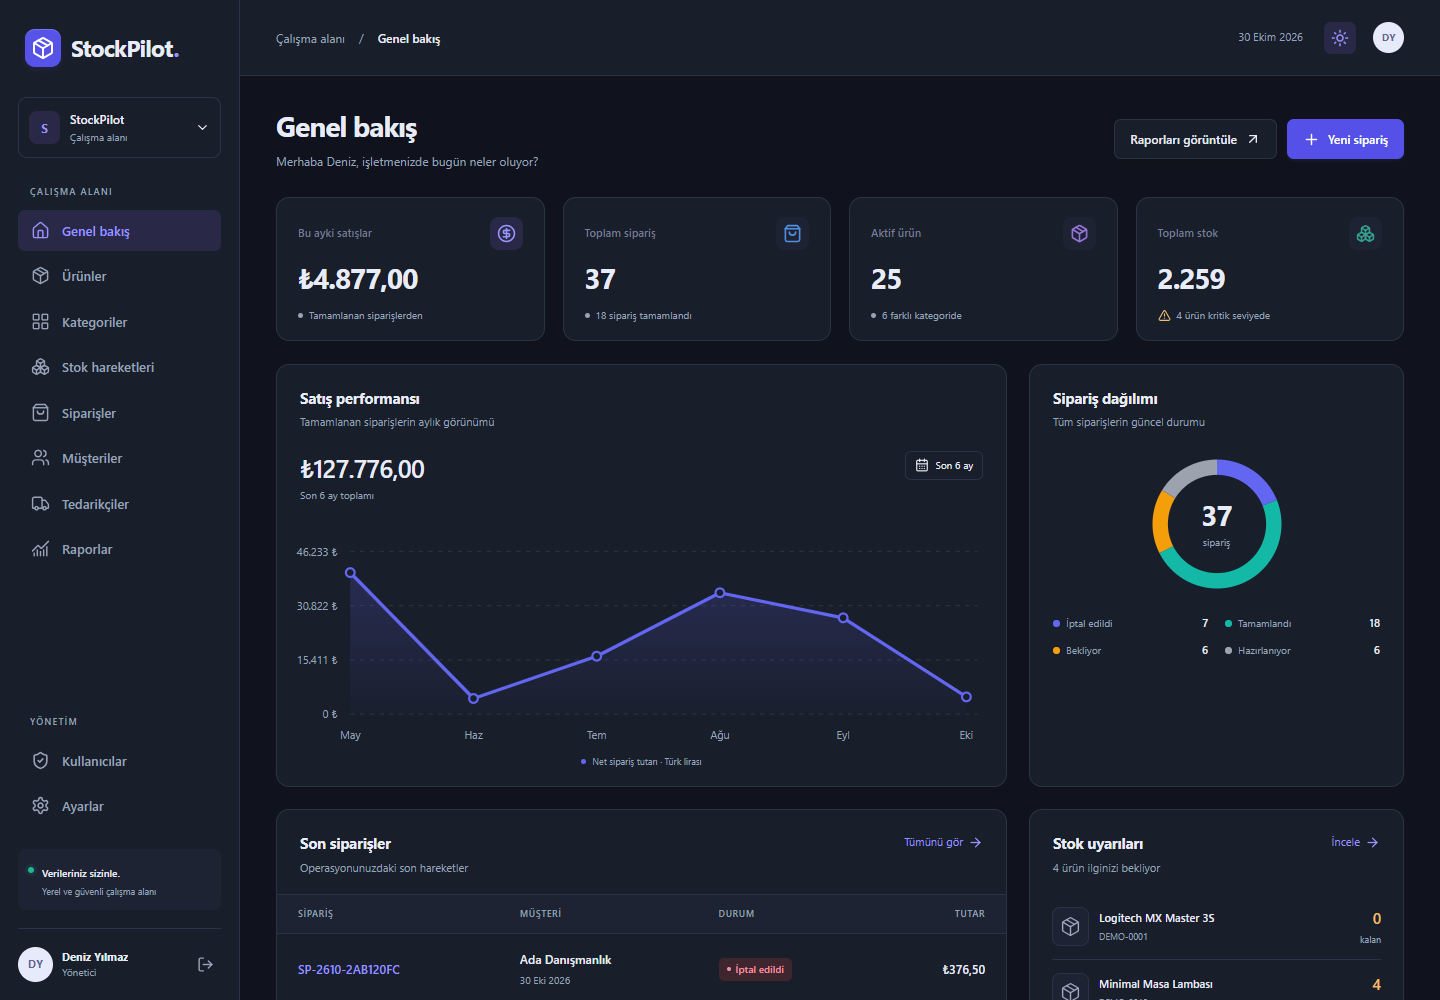
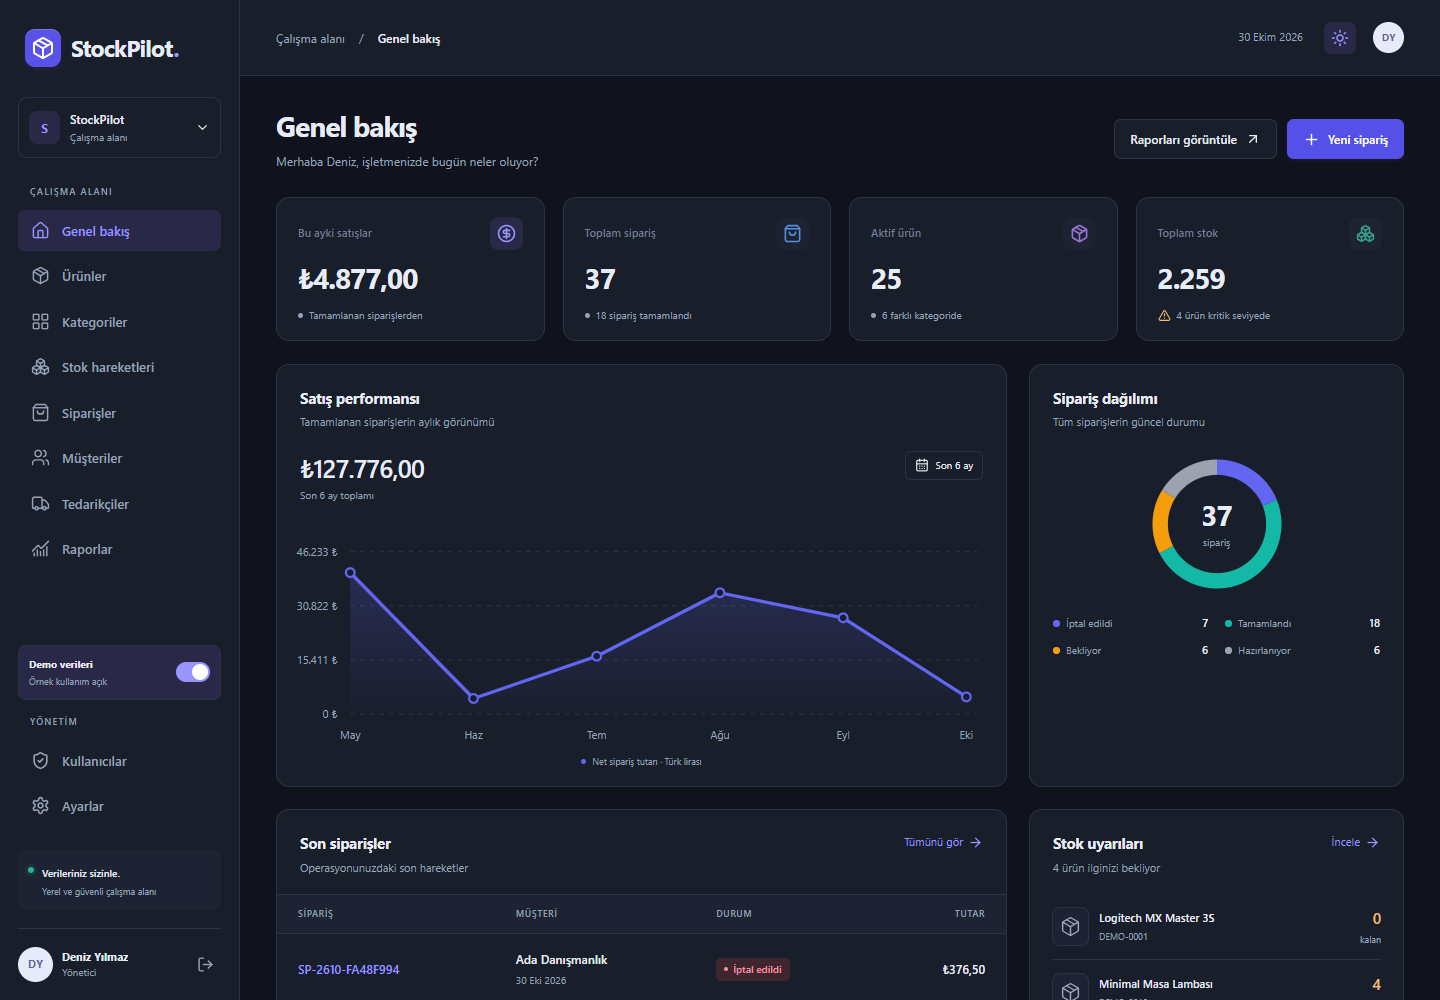
feat: add demo data toggle with real record scope

diff --git a/frontend/src/layouts/AppLayout.jsx b/frontend/src/layouts/AppLayout.jsx
@@ -2,6 +2,7 @@ import { useEffect, useRef, useState } from 'react'
 import { Boxes, ChartNoAxesCombined, ChevronDown, CircleHelp, House, LayoutGrid, LogOut, Menu, Moon, Package, Settings, ShieldCheck, ShoppingBag, Sun, Truck, Users, X } from 'lucide-react'
 import { Link, NavLink, Outlet, useLocation } from 'react-router-dom'
 import { useAuth } from '../contexts/AuthContext'
+import { useDemoMode } from '../contexts/DemoModeContext'
 import { useToast } from '../contexts/ToastContext'
 import { initials } from '../utils/format'
 import { useResource } from '../hooks/useResource'
@@ -19,6 +20,7 @@ const navigation = [
 
 export default function AppLayout() {
   const { user, logout } = useAuth()
+  const { demoMode, setDemoMode } = useDemoMode()
   const toast = useToast()
   const location = useLocation()
   const [open, setOpen] = useState(false)
@@ -56,7 +58,7 @@ export default function AppLayout() {
       <Link to="/settings" className="workspace-card"><span className="workspace-avatar">{initials(settings?.company_name || 'StockPilot')}</span><span><strong>{settings?.company_name || 'StockPilot'}</strong><small>Çalışma alanı</small></span><ChevronDown size={15} /></Link>
       <span className="nav-caption">ÇALIŞMA ALANI</span>
       <nav>{navigation.filter((item) => !item.admin || user.role === 'admin').map(({ path, label, icon: Icon }) => <NavLink key={path} to={path} end={path === '/'}><Icon size={19} strokeWidth={1.8} /><span>{label}</span></NavLink>)}</nav>
-      <div className="sidebar-bottom"><span className="nav-caption">YÖNETİM</span><nav>
+      <div className="sidebar-bottom"><div className="demo-switch-card"><div><strong>Demo verileri</strong><p>{demoMode ? 'Örnek kullanım açık' : 'Gerçek veriler açık'}</p></div><button type="button" role="switch" aria-checked={demoMode} aria-label="Demo verilerini aç veya kapat" className={`switch ${demoMode ? 'on' : ''}`} onClick={() => setDemoMode(!demoMode)}><span /></button></div><span className="nav-caption">YÖNETİM</span><nav>
         {user.role === 'admin' && <NavLink to="/users"><ShieldCheck size={19} />Kullanıcılar</NavLink>}
         <NavLink to="/settings"><Settings size={19} />Ayarlar</NavLink>
       </nav><div className="local-card"><span className="live-dot" /><div><strong>Verileriniz sizinle.</strong><p>Yerel ve güvenli çalışma alanı</p></div></div>

diff --git a/frontend/src/styles/index.css b/frontend/src/styles/index.css
@@ -64,6 +64,9 @@ svg { flex-shrink: 0; }
 .sidebar nav a.active { background: var(--primary-soft); color: var(--primary); font-weight: 600; }
 .sidebar-bottom { margin-top: auto; padding-top: 30px; }
 .local-card { display: flex; align-items: flex-start; gap: 8px; margin: 22px 0 18px; background: var(--surface-alt); padding: 12px 10px; border-radius: 8px; }
+.demo-switch-card { display: flex; align-items: center; justify-content: space-between; gap: 8px; margin: 0 0 15px; padding: 11px 10px; border: 1px solid var(--border); border-radius: 8px; background: var(--primary-soft); }
+.demo-switch-card strong { display: block; font-size: 10px; font-weight: 650; }.demo-switch-card p { color: var(--muted); font-size: 9px; margin-top: 3px; }
+.switch { position: relative; width: 34px; height: 20px; border: 0; border-radius: 11px; background: #b5bac8; padding: 2px; flex-shrink: 0; }.switch span { display: block; width: 16px; height: 16px; border-radius: 50%; background: #fff; transition: transform .2s var(--ease); box-shadow: 0 1px 2px #20263822; }.switch.on { background: var(--primary); }.switch.on span { transform: translateX(14px); }
 .local-card strong { font-size: 10px; font-weight: 600; }
 .local-card p { font-size: 9px; color: var(--muted); margin-top: 3px; }
 .live-dot { background: #20b592; width: 6px; height: 6px; border-radius: 50%; box-shadow: 0 0 0 3px #20b59218; display: inline-block; margin-top: 6px; flex-shrink: 0; }

diff --git a/frontend/src/contexts/DemoModeContext.jsx b/frontend/src/contexts/DemoModeContext.jsx
@@ -1,0 +1,17 @@
+/* eslint-disable react-refresh/only-export-components */
+/* The demo switch is a presentation scope, not a second mock API. */
+import { createContext, useContext, useEffect, useState } from 'react'
+import { setDemoMode } from '../services/api'
+
+const DemoModeContext = createContext(null)
+export const useDemoMode = () => useContext(DemoModeContext)
+
+export function DemoModeProvider({ children }) {
+  const [demoMode, setMode] = useState(() => localStorage.getItem('stockpilot-demo-mode') !== 'false')
+  useEffect(() => {
+    setDemoMode(demoMode)
+    localStorage.setItem('stockpilot-demo-mode', String(demoMode))
+    window.dispatchEvent(new Event('demo-mode-changed'))
+  }, [demoMode])
+  return <DemoModeContext.Provider value={{ demoMode, setDemoMode: setMode }}>{children}</DemoModeContext.Provider>
+}

diff --git a/frontend/src/main.jsx b/frontend/src/main.jsx
@@ -4,8 +4,9 @@ import { BrowserRouter } from 'react-router-dom'
 import App from './App'
 import { AuthProvider } from './contexts/AuthContext'
 import { ToastProvider } from './contexts/ToastContext'
+import { DemoModeProvider } from './contexts/DemoModeContext'
 import './styles/index.css'
 
 ReactDOM.createRoot(document.getElementById('root')).render(
-  <React.StrictMode><BrowserRouter><AuthProvider><ToastProvider><App /></ToastProvider></AuthProvider></BrowserRouter></React.StrictMode>,
+  <React.StrictMode><BrowserRouter><DemoModeProvider><AuthProvider><ToastProvider><App /></ToastProvider></AuthProvider></DemoModeProvider></BrowserRouter></React.StrictMode>,
 )

diff --git a/frontend/src/services/api.js b/frontend/src/services/api.js
@@ -1,10 +1,13 @@
 let csrfToken = ''
+let demoMode = typeof localStorage === 'undefined' || localStorage.getItem('stockpilot-demo-mode') !== 'false'
 export const setCsrf = (token) => { csrfToken = token || '' }
+export const setDemoMode = (enabled) => { demoMode = Boolean(enabled) }
 
 export async function api(path, { method = 'GET', body, signal } = {}) {
   const headers = {}
   if (body && !(body instanceof FormData)) headers['Content-Type'] = 'application/json'
   if (method !== 'GET') headers['X-CSRF-Token'] = csrfToken
+  headers['X-Demo-Mode'] = String(demoMode)
   let response
   try {
     response = await fetch(`/api${path}`, {

diff --git a/frontend/src/hooks/useResource.js b/frontend/src/hooks/useResource.js
@@ -6,6 +6,10 @@ export function useResource(path) {
   const [version, setVersion] = useState(0)
   const reload = useCallback(() => setVersion((v) => v + 1), [])
   useEffect(() => {
+    window.addEventListener('demo-mode-changed', reload)
+    return () => window.removeEventListener('demo-mode-changed', reload)
+  }, [reload])
+  useEffect(() => {
     if (!path) { setState({ data: null, loading: false, error: '' }); return }
     const controller = new AbortController()
     setState((old) => ({ ...old, loading: true, error: '' }))

diff --git a/backend/app/models/entities.py b/backend/app/models/entities.py
@@ -3,7 +3,7 @@ from datetime import datetime
 from sqlalchemy import Boolean, CheckConstraint, ForeignKey, Index, Integer, String, Text
 from sqlalchemy.orm import Mapped, mapped_column, relationship
 
-from app.db.database import Base, utcnow
+from app.db.database import Base, DemoMixin, utcnow
 
 
 class Timestamp:
@@ -44,7 +44,7 @@ class LoginAttempt(Base):
     created_at: Mapped[datetime] = mapped_column(default=utcnow, index=True)
 
 
-class Category(Timestamp, Base):
+class Category(DemoMixin, Timestamp, Base):
     __tablename__ = "categories"
     id: Mapped[int] = mapped_column(primary_key=True)
     name: Mapped[str] = mapped_column(String(100), unique=True)
@@ -60,15 +60,15 @@ class Contact(Timestamp):
     active: Mapped[bool] = mapped_column(Boolean, default=True, index=True)
 
 
-class Supplier(Contact, Base):
+class Supplier(DemoMixin, Contact, Base):
     __tablename__ = "suppliers"
 
 
-class Customer(Contact, Base):
+class Customer(DemoMixin, Contact, Base):
     __tablename__ = "customers"
 
 
-class Product(Timestamp, Base):
+class Product(DemoMixin, Timestamp, Base):
     __tablename__ = "products"
     __table_args__ = (
         CheckConstraint("stock >= 0", name="nonnegative_stock"),
@@ -91,7 +91,7 @@ class Product(Timestamp, Base):
     supplier: Mapped[Supplier | None] = relationship(lazy="joined")
 
 
-class Order(Timestamp, Base):
+class Order(DemoMixin, Timestamp, Base):
     __tablename__ = "orders"
     __table_args__ = (
         CheckConstraint("status IN ('Pending','Confirmed','Processing','Completed','Cancelled')", name="status"),
@@ -111,7 +111,7 @@ class Order(Timestamp, Base):
     events: Mapped[list["OrderEvent"]] = relationship(cascade="all, delete-orphan", order_by="OrderEvent.id", lazy="selectin")
 
 
-class OrderItem(Base):
+class OrderItem(DemoMixin, Base):
     __tablename__ = "order_items"
     __table_args__ = (CheckConstraint("quantity > 0 AND unit_price >= 0", name="positive_values"),
                      Index("uq_order_product", "order_id", "product_id", unique=True))
@@ -125,7 +125,7 @@ class OrderItem(Base):
     unit_price: Mapped[int] = mapped_column(Integer)
 
 
-class OrderEvent(Base):
+class OrderEvent(DemoMixin, Base):
     __tablename__ = "order_events"
     id: Mapped[int] = mapped_column(primary_key=True)
     order_id: Mapped[int] = mapped_column(ForeignKey("orders.id"), index=True)
@@ -136,7 +136,7 @@ class OrderEvent(Base):
     user: Mapped[User] = relationship(lazy="joined")
 
 
-class StockMovement(Base):
+class StockMovement(DemoMixin, Base):
     __tablename__ = "stock_movements"
     __table_args__ = (
         CheckConstraint("kind IN ('in','out','adjustment','order','return')", name="kind"),
@@ -155,7 +155,7 @@ class StockMovement(Base):
     user: Mapped[User] = relationship(lazy="joined")
 
 
-class AuditLog(Base):
+class AuditLog(DemoMixin, Base):
     __tablename__ = "audit_logs"
     id: Mapped[int] = mapped_column(primary_key=True)
     user_id: Mapped[int | None] = mapped_column(ForeignKey("users.id"), index=True)

diff --git a/backend/alembic/versions/db976d326882_add_demo_record_scope.py b/backend/alembic/versions/db976d326882_add_demo_record_scope.py
@@ -1,0 +1,40 @@
+"""add demo record scope
+
+Revision ID: db976d326882
+Revises: 214768e25502
+"""
+from alembic import op
+import sqlalchemy as sa
+
+
+revision = 'db976d326882'
+down_revision = '214768e25502'
+branch_labels = None
+depends_on = None
+TABLES = ("audit_logs", "categories", "customers", "order_events", "order_items",
+          "orders", "products", "stock_movements", "suppliers")
+
+
+def upgrade():
+    for table in TABLES:
+        op.add_column(table, sa.Column('is_demo', sa.Boolean(), server_default=sa.false(), nullable=False))
+        op.create_index(f'ix_{table}_is_demo', table, ['is_demo'], unique=False)
+
+    # Mark deterministic seed rows that predate this scope column.
+    op.execute("UPDATE products SET is_demo = 1 WHERE sku LIKE 'DEMO-%'")
+    op.execute("UPDATE categories SET is_demo = 1 WHERE id IN (SELECT category_id FROM products WHERE is_demo = 1)")
+    op.execute("UPDATE suppliers SET is_demo = 1 WHERE email LIKE 'tedarik%@example.com'")
+    op.execute("UPDATE customers SET is_demo = 1 WHERE email LIKE 'musteri%@example.com'")
+    op.execute("UPDATE orders SET is_demo = 1 WHERE notes LIKE '%Demo veri%'")
+    op.execute("UPDATE order_items SET is_demo = 1 WHERE order_id IN (SELECT id FROM orders WHERE is_demo = 1)")
+    op.execute("UPDATE order_events SET is_demo = 1 WHERE order_id IN (SELECT id FROM orders WHERE is_demo = 1)")
+    op.execute("UPDATE stock_movements SET is_demo = 1 WHERE order_id IN (SELECT id FROM orders WHERE is_demo = 1) OR note LIKE '%Demo%'")
+    op.execute("UPDATE audit_logs SET is_demo = 1 WHERE entity IN ('products', 'orders', 'stock_movements')")
+
+    # ### end Alembic commands ###
+
+
+def downgrade():
+    for table in reversed(TABLES):
+        op.drop_index(f'ix_{table}_is_demo', table_name=table)
+        op.drop_column(table, 'is_demo')

diff --git a/backend/app/db/database.py b/backend/app/db/database.py
@@ -1,7 +1,8 @@
 from datetime import datetime, timezone
 
-from sqlalchemy import MetaData, create_engine, event
-from sqlalchemy.orm import DeclarativeBase, Session, sessionmaker
+from sqlalchemy import Boolean, MetaData, create_engine, event
+from sqlalchemy.orm import DeclarativeBase, Mapped, Session, mapped_column, sessionmaker
+from sqlalchemy.orm import with_loader_criteria
 
 from app.core.config import settings
 
@@ -16,6 +17,31 @@ class Base(DeclarativeBase):
         "ck": "ck_%(table_name)s_%(constraint_name)s", "fk": "fk_%(table_name)s_%(column_0_name)s_%(referred_table_name)s",
         "pk": "pk_%(table_name)s",
     })
+
+
+class DemoMixin:
+    """Business records are transparently scoped to the selected demo mode."""
+
+    is_demo: Mapped[bool] = mapped_column(Boolean, default=False, nullable=False, index=True)
+
+
+@event.listens_for(Session, "do_orm_execute")
+def scope_demo_records(execute_state):
+    if (execute_state.is_select and not execute_state.is_column_load
+            and not execute_state.is_relationship_load
+            and not execute_state.execution_options.get("skip_demo_scope")):
+        demo_mode = bool(execute_state.session.info.get("demo_mode", False))
+        execute_state.statement = execute_state.statement.options(
+            with_loader_criteria(DemoMixin, lambda cls: cls.is_demo == demo_mode, include_aliases=True)
+        )
+
+
+@event.listens_for(Session, "before_flush")
+def stamp_demo_records(session, _flush_context, _instances):
+    demo_mode = bool(session.info.get("demo_mode", False))
+    for instance in session.new:
+        if isinstance(instance, DemoMixin):
+            instance.is_demo = demo_mode
 
 
 def make_engine(url):

diff --git a/backend/tests/test_regressions.py b/backend/tests/test_regressions.py
@@ -89,3 +89,16 @@ def test_integer_money_and_page_limits(admin):
     body = {"sku": "NO-FLOAT", "name": "Fiyat testi", "category_id": 1, "sale_price": 0.1, "purchase_price": 0}
     assert admin.post("/api/products", json=body).status_code == 422
     assert admin.get("/api/products?page_size=100000").status_code == 422
+
+
+def test_demo_mode_scopes_business_records(env):
+    with logged_client(env["app"]) as real, logged_client(env["app"]) as demo:
+        demo.headers["X-Demo-Mode"] = "true"
+        demo_category = demo.post("/api/categories", json={"name": "Demo kategori"}).json()
+        real_category = real.post("/api/categories", json={"name": "Gerçek kategori"}).json()
+        for client, sku, category_id in ((demo, "DEMO-SCOPE", demo_category["id"]), (real, "REAL-SCOPE", real_category["id"])):
+            response = client.post("/api/products", json={"sku": sku, "name": sku, "category_id": category_id,
+                "sale_price": 1000, "purchase_price": 500, "critical_stock": 3})
+            assert response.status_code == 201, response.text
+        assert demo.get("/api/products").json()["total"] == 1
+        assert real.get("/api/products").json()["total"] == 1

diff --git a/backend/scripts/seed.py b/backend/scripts/seed.py
@@ -38,11 +38,12 @@ PRODUCTS = [
 
 
 def seed(db, admin):
+    db.info["demo_mode"] = True
     if db.get(Setting, "demo_seed_v1"):
         return False
     categories = {}
     for name in dict.fromkeys(p[1] for p in PRODUCTS):
-        category = db.scalar(select(Category).where(Category.name == name))
+        category = db.scalar(select(Category).where(Category.name == name).execution_options(skip_demo_scope=True))
         if category is None:
             category = Category(name=name, description=f"{name} ürün grubu")
             db.add(category)

diff --git a/backend/app/dependencies/auth.py b/backend/app/dependencies/auth.py
@@ -12,6 +12,7 @@ from app.models import SessionToken, User
 
 def get_db(request: Request):
     with request.app.state.session_factory() as db:
+        db.info["demo_mode"] = request.headers.get("X-Demo-Mode", "false").lower() == "true"
         try:
             if request.method not in {"GET", "HEAD", "OPTIONS"}:
                 db.connection(execution_options={"sqlite_write": True})
